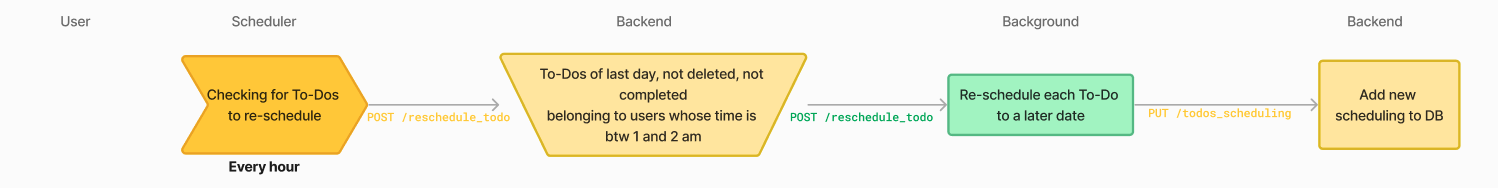
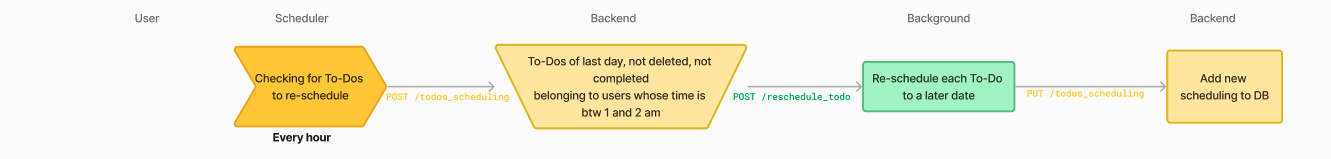
add code in todos documentation

diff --git a/docs/to-do_list/how_todo_works.md b/docs/to-do_list/how_todo_works.md
@@ -11,10 +11,34 @@ ExtractTodos(600) # extract todos every 10 minutes
 [...]
 ```
 
-> A task is considered 'just achieved' if it has an associated produced_text which last version's date is between 10 and 20 minutes ago. See `backend/app/routes/extract_todos.py`
+> A task is considered 'just achieved' if it has an associated produced_text which last version's date is between 10 and 20 minutes ago. See `backend/app/routes/extract_todos.py`.
 
+Each of those tasks are sent to the background through route `/extract_todos` for processing. 
+As a reminder, when a background route is called, the data is processed as follow:
 
-This task is then processed in background for To-Do extraction using a prompt – `data/prompts/background/todos/extract_todos.txt`– filled with all tasks data and which main instructions are:
+```python
+class ExtractTodos(Resource):
+    [...]
+    def post(self):
+            [...]
+            extract_todos_cortex = ExtractTodosCortex(user_task_execution)
+          
+            def run_extract_todos_cortex(cortex):
+                try:
+                    cortex.extract_todos()
+                except Exception as err:
+                    print("🔴" + str(err))
+
+            executor.submit(run_extract_todos_cortex, extract_todos_cortex)
+            return {"success": "Process started"}, 200
+    [...]
+```
+
+- A cortex (here `background/app/models/cortex/extract_todos_cortex.py`) is created. At construction, the cortex collects all database entries needed for further processing. This is done to avoid database connection out of main thread.
+
+- Then, the main function of the cortex, responsible for processing data (here `extract_todos()`) is called in an asynchronous way.
+
+The method extract_todos() uses prompt `data/prompts/background/todos/extract_todos.txt`– filled with all tasks data to extract To-Dos out of completed task. Notable instructions of this prompt are:
 
 - Extraction instruction: To define what is a To-Do.
 ```
@@ -54,16 +78,68 @@ This json is parsed and items are added to the database, related to the task.
 ![extract_todos](../images/to-dos_flow/extract_todos.png)
 
 ## Remind the user
-Here comes Mojodex's scheduler again with another trigger that every hour checks users whose local time is `DAILY_TODO_EMAIL_TIME` (defined in env vars).
-For each of those users, the assistant will collect all To-Dos that are due for the coming day + the re-organization work it has done (cf step 4) and draft a friendly reminding emails to send to the user.
+Here comes Mojodex's scheduler again with another hourly trigger.
+
+`/scheduler/app/main.py`
+```python
+from scheduled_tasks.purchase_expiration_checker import PurchasesExpirationChecker
+[...]
+emails = 'AWS_ACCESS_KEY_ID' in os.environ and os.environ['AWS_ACCESS_KEY_ID']
+if emails:
+    [...]
+    SendTodoDailyEmails(3600) # send todo daily emails every 1 hour (filtered by timezone)
+[...] 
+```
+
+> Note that this trigger is only activated if the environment variable `AWS_ACCESS_KEY_ID` is set. This variable is used to send emails through AWS SES, only emails mechanism implemented in Mojodex for now.
+
+
+This triggers calls Mojodex's backend route `/todo_daily_emails` to retrieve all users whose local time is `DAILY_TODO_EMAIL_TIME` (defined in [env vars](../../.env.example)).
+
+
+For each of those users, the assistant will collect all To-Dos that are dued for the coming day + the re-organization work it has done (cf step 4) and send those data to the background using route `events_generation` with parameter `'event_type': 'todo_daily_emails'`.
+
+The background uses its `TodoDailyEmailsGenerator` (`background/app/models/events/todo_daily_emails_generator.py`) with prompt `data/prompts/engagement/emails/todo_daily_emails_text_prompt.txt` to draft a friendly reminding emails to send to the user from provided data.
+
+Once an email is ready, the background sends it backend to the backend using route `/event` with parameter so that the backend sends the email to the user using AWS SES and logs it to the database.
+
+`backend/app/routes/event.py`
+```python
+[...]
+mojo_mail_client.send_mail(subject=subject,
+                            recipients=[email],
+                            html=body)
+# add notification to db
+email_event = MdEvent(creation_date=datetime.now(), event_type=event_type,
+                        user_id=user_id,
+                        message=message)
+db.session.add(email_event)
+db.session.commit()
+[...]
+```
 
 ![remind_user](../images/to-dos_flow/remind_user.png)
 
 ## Organize
-Another trigger of the scheduler takes care of reorganizing user's To-Do list every night to keep it up-to-date.
-Every night between 1am and 2am user's time, the assistant collects every To-Do items that was due for the day before and has not been deleted, nor completed. In background, the assistant is prompted to re-scheduled those to a later date.
+Another hourly trigger of the scheduler takes care of reorganizing user's To-Do list every night to keep it up-to-date.
 
-This prompt is provided with:
+```python
+from scheduled_tasks.reschedule_todos import RescheduleTodos
+[...]
+RescheduleTodos(3600) # reschedule todos every 1 hour
+[...]
+```
+
+This trigger calls Mojodex's backend route `/todo_scheduling` to retrieve all To-Dos items that:
+- Belongs to a user whose local time is between 1am and 2am
+- Has not been deleted, nor completed
+- Was due for the day before
+
+Each of those To-Dos are sent to the background using route `/reschedule_todos` for processing.
+
+Here, the route uses cortex `backend/app/models/cortex/reschedule_todo_cortex.py` to process the data. The main function of the cortex, responsible for processing data is `reschedule_todo`.
+
+It uses prompt `data/prompts/background/todos/reschedule_todo.txt` provided with:
 - related task data
 - To-Do item along with the number of times it has already been rescheduled and
 - User's To-Do list in upcoming days
@@ -82,7 +158,34 @@ This prompt outputs a json answer that can be parsed so that a new scheduling ca
 
 ## Bonus Step
 User can of course also act on their own To-Dos. For now, they can take 2 actions:
-- Delete a To-Do item, if it was not relevant to add it or the assistant made any mistake
-- Mark a To-Do as completed as soon as they don't need it anymore to remember of the work they have to do.
+- Delete a To-Do item, if it was not relevant to add it or the assistant made any mistake. As any application call, this call is made to the backend and the route is DELETE `/todo`.
+> Note: an item is never deleted for real in the database. It is only marked as deleted so that it does not appear in the user's To-Do list anymore. This is to keep track of all the work the assistant has done.
+`backend/app/routes/todo.py`
+```python
+class Todos(Resource):
+    [...]
+    def delete(self, user_id):
+        [...]
+        todo.deleted_by_user = datetime.now()
+        db.session.commit()
+        [...]
+           
+```
+
+- Mark a To-Do as completed as soon as they don't need it anymore to remember of the work they have to do. As any application call, this call is made to the backend and the route is POST `/todo`.
+`backend/app/routes/todo.py`
+```python
+class Todos(Resource):
+    [...]
+    def post(self, user_id):
+        [...]
+        todo.completed = datetime.now()
+        db.session.commit()
+        [...]
+           
+```
+
 
 ![user_actions](../images/to-dos_flow/user_actions.png)
+
+> Note: find every API specification in the [Backend API documentation](../openAPI/backend_api.yaml) and the [Background API documentation](../openAPI/background_api.yaml)
